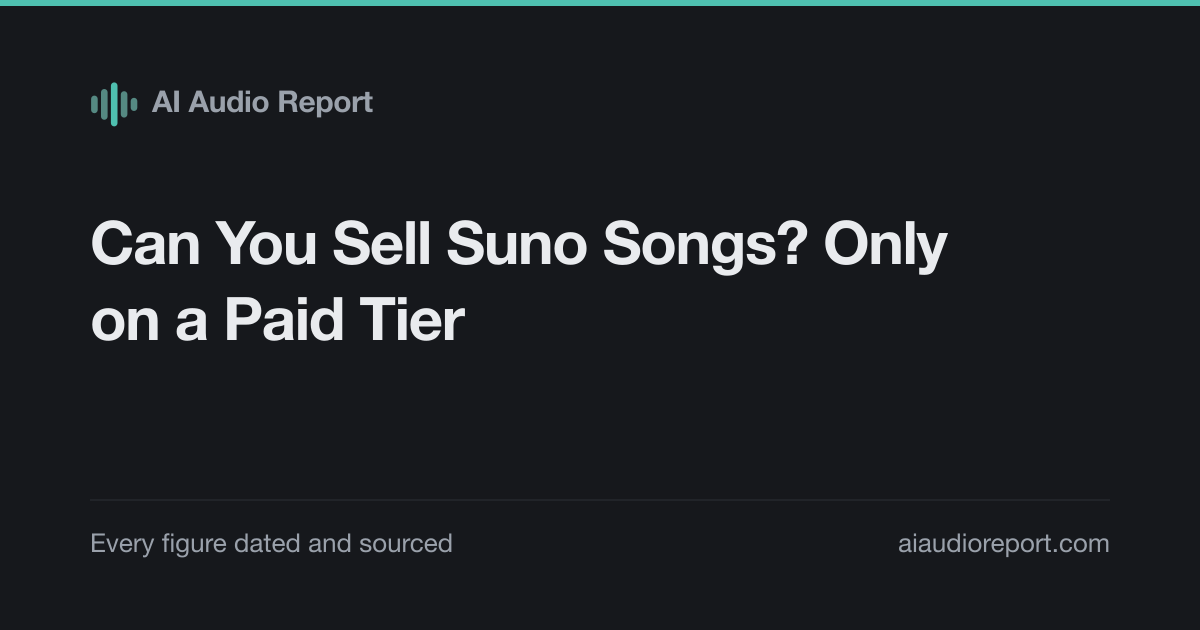
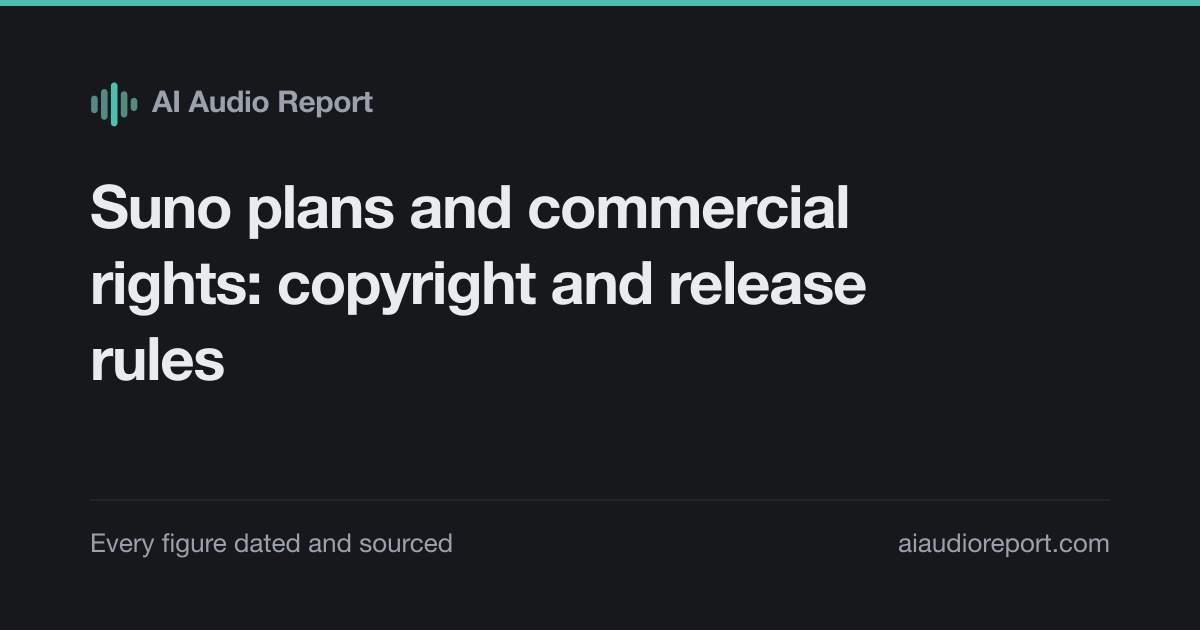
Rewrite article headlines for a more human voice

Changed region(s): [[0.0617, 0.2714, 0.8017, 0.6032]]

diff --git a/src/content/articles/splice-vs-loopcloud-credits.md b/src/content/articles/splice-vs-loopcloud-credits.md
@@ -1,5 +1,5 @@
 ---
-title: "Splice vs Loopcloud 2026: What You Keep If You Cancel"
+title: "Splice and Loopcloud: credits, cancellation and the cost per sound"
 description: "Splice credits expire after cancellation; Loopcloud points stay in your account. The services also charge different amounts for each sound."
 pubDate: 2026-11-08
 updatedDate: 2026-11-09

diff --git a/src/content/articles/offline-ai-audio-tools.md b/src/content/articles/offline-ai-audio-tools.md
@@ -1,5 +1,5 @@
 ---
-title: "AI Audio Tools That Run Offline, and the Hardware You Need"
+title: "Offline AI audio tools: Whisper, Demucs and the hardware they need"
 description: "Whisper and Demucs run locally, but their model licences differ. Here's what your computer needs to transcribe audio or split stems."
 pubDate: 2026-11-08
 updatedDate: 2026-11-09

diff --git a/src/content/articles/can-you-sell-suno-music.md b/src/content/articles/can-you-sell-suno-music.md
@@ -1,5 +1,5 @@
 ---
-title: "Can You Sell Suno Music Commercially? Only on a Paid Plan"
+title: "Suno plans and commercial rights: copyright and release rules"
 description: "A paid Suno plan can grant commercial rights to downloaded tracks. Copyright and distributor rules are separate questions before release."
 pubDate: 2026-11-08
 updatedDate: 2026-11-09

diff --git a/src/content/articles/can-you-upload-ai-music.md b/src/content/articles/can-you-upload-ai-music.md
@@ -1,5 +1,5 @@
 ---
-title: "Can You Put AI Music on Spotify? Yes, but Not on Beatport"
+title: "Releasing AI music on Spotify, Beatport and other platforms"
 description: "Spotify accepts AI music; Beatport rejects tracks it considers mostly AI-generated. Other distributor agreements don't give a clear answer."
 pubDate: 2026-11-08
 updatedDate: 2026-11-09

diff --git a/src/content/articles/plugin-boutique-membership-tiers.md b/src/content/articles/plugin-boutique-membership-tiers.md
@@ -1,5 +1,5 @@
 ---
-title: "Plugin Boutique Gold vs Silver: What the Tiers Actually Add"
+title: "Plugin Boutique Silver and Gold: the value of each tier"
 description: "Membership is free. Silver adds little; Gold raises store credit to 7.5% and includes a monthly plugin after you meet its spend threshold."
 pubDate: 2026-11-08
 updatedDate: 2026-11-09

diff --git a/src/content/articles/ai-voice-cloning-rules.md b/src/content/articles/ai-voice-cloning-rules.md
@@ -1,5 +1,5 @@
 ---
-title: "Is AI Voice Cloning Legal? What Actually Stops You in 2026"
+title: "AI voice cloning law: consent, copyright and platform rules"
 description: "US law is unsettled, but platform rules and tool contracts already apply. Here's what the NO FAKES Act and current voice policies say."
 pubDate: 2026-11-08
 updatedDate: 2026-11-09

diff --git a/src/content/articles/free-splice-alternatives.md b/src/content/articles/free-splice-alternatives.md
@@ -1,5 +1,5 @@
 ---
-title: "Free Splice Alternatives and What You Can Legally Release"
+title: "Free Splice alternatives and the sample licences behind them"
 description: "Free sample libraries have different licences. Looperman allows commercial releases; on Freesound, check the licence on each file."
 pubDate: 2026-11-08
 updatedDate: 2026-11-09

diff --git a/src/content/articles/landr-emastered-ozone.md b/src/content/articles/landr-emastered-ozone.md
@@ -1,5 +1,5 @@
 ---
-title: "LANDR vs eMastered vs Ozone: Rent or Buy Your Mastering"
+title: "Pay monthly or buy once: LANDR, eMastered and Ozone for mastering"
 description: "Compare LANDR, eMastered and Ozone by the kind of file you get, the subscription limits and the point where buying wins."
 pubDate: 2026-11-08
 updatedDate: 2026-11-09

diff --git a/src/content/articles/loopcloud-points-calculator.md b/src/content/articles/loopcloud-points-calculator.md
@@ -1,5 +1,5 @@
 ---
-title: "Loopcloud Points Explained: How Many You Actually Need"
+title: "Loopcloud points by download: budget around the sounds you use"
 description: "Estimate your monthly Loopcloud points from what you download. One-shots cost one point; some vocal files take up to eight."
 pubDate: 2026-11-08
 updatedDate: 2026-11-09

diff --git a/src/content/articles/free-daws-what-they-limit.md b/src/content/articles/free-daws-what-they-limit.md
@@ -1,5 +1,5 @@
 ---
-title: "Best Free DAWs in 2026: Cakewalk No Longer Counts"
+title: "Free DAWs compared: track limits, exports and upgrade costs"
 description: "Cakewalk Sonar now requires a paid BandLab membership. Waveform Free has no track cap; other free DAWs come with different limits."
 pubDate: 2026-11-08
 updatedDate: 2026-11-09

diff --git a/src/content/articles/is-splice-worth-it.md b/src/content/articles/is-splice-worth-it.md
@@ -1,5 +1,5 @@
 ---
-title: "Is Splice Worth It? What $19.99 a Month Actually Buys"
+title: "Splice Creator pricing and the value of 200 monthly credits"
 description: "Splice Creator costs $19.99 a month for 200 credits, not always 200 sounds. Presets and MIDI can use three credits each."
 pubDate: 2026-11-08
 updatedDate: 2026-11-09

diff --git a/src/content/articles/landr-pricing-unlimited-mastering.md b/src/content/articles/landr-pricing-unlimited-mastering.md
@@ -1,5 +1,5 @@
 ---
-title: "LANDR Pricing 2026: What Unlimited Mastering Leaves Out"
+title: "LANDR mastering pricing: WAV limits and the annual cost"
 description: "LANDR's entry plan gives you unlimited MP3 masters. WAV limits vary by tier, and sale pricing changes the annual maths."
 pubDate: 2026-11-08
 updatedDate: 2026-11-09
